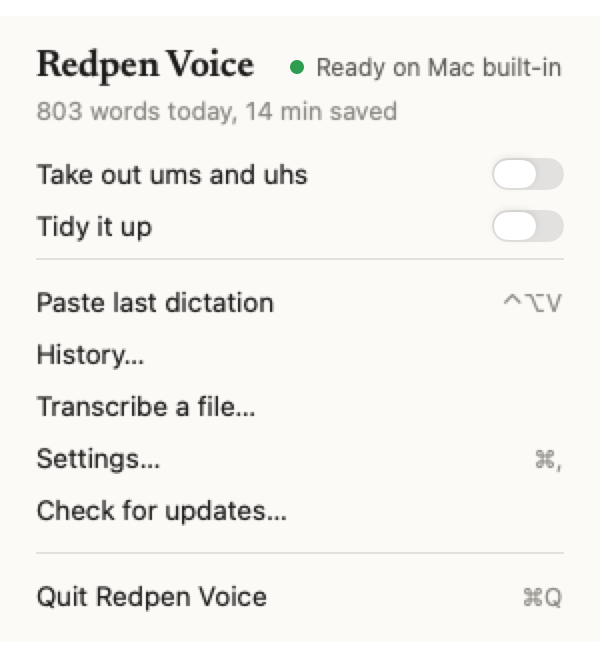
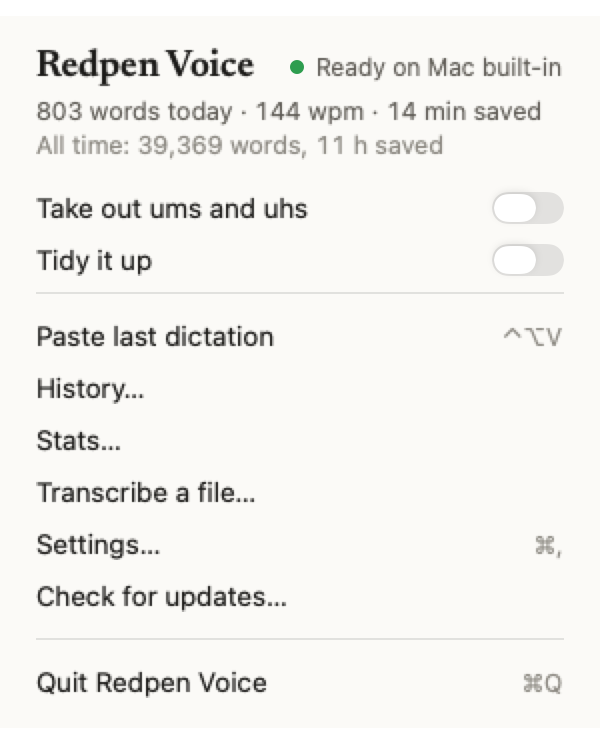
README: the Stats window, stats.json in Privacy; pictures redrawn with sample numbers

diff --git a/README.md b/README.md
@@ -63,18 +63,18 @@ Tap the key twice to keep talking with your hands free, and tap once more to fin
 
 ## The menu
 
-Click the Voice icon in the menu bar for today's words and the minutes they saved you, the two switches, Paste last dictation, Transcribe a file, Settings and Check for updates.
+Click the Voice icon in the menu bar for today's words, your speed and the minutes they saved you, with an all-time line under them; the two switches; Paste last dictation, History, Stats, Transcribe a file, Settings and Check for updates.
 
 <p align="center">
 <picture>
   <source media="(prefers-color-scheme: dark)" srcset="docs/screenshots/menu-dark.png">
-  <img src="docs/screenshots/menu-light.png" alt="The menu bar panel: status, words today and minutes saved, two switches, paste last dictation, transcribe a file, settings, check for updates" width="300">
+  <img src="docs/screenshots/menu-light.png" alt="The menu bar panel: status, words today, speed and minutes saved, an all-time line, two switches, paste last dictation, history, stats, transcribe a file, settings, check for updates" width="300">
 </picture>
 </p>
 
 ## Settings
 
-Every choice on one page: the engine, how your words come out, the key you talk with, your microphone, the bar, and your list of words it gets wrong. Each engine shows a real sentence it heard, so you can judge before you download.
+Every choice on one page: the engine, how your words come out, the key you talk with, your microphone, the bar, your list of words it gets wrong, and your typing speed for time saved. Each engine shows a real sentence it heard, so you can judge before you download.
 
 <p align="center">
 <picture>
@@ -114,6 +114,17 @@ Every dictation, newest first: search them, copy one, delete one. Choose how lon
 </picture>
 </p>
 
+## Stats
+
+This week, the last 30 days and all time: words, minutes saved, your average speed and how many dictations. Below them, your words a day for the last 30 days and your speed over time. Minutes saved are compared with typing at 40 words a minute; set your own typing speed in Settings. Open it from the menu. Stats are numbers only and stay when the history is cleared; Reset stats sets them back to zero.
+
+<p align="center">
+<picture>
+  <source media="(prefers-color-scheme: dark)" srcset="docs/screenshots/stats-dark.png">
+  <img src="docs/screenshots/stats-light.png" alt="The stats window, shown with sample numbers: this week, the last 30 days and all time, words a day for 30 days, and speed week by week" width="480">
+</picture>
+</p>
+
 ## How accurate is it
 
 All three engines were run on [WildSpeech-Bench](https://huggingface.co/datasets/tencent/WildSpeech-Bench), 1,100 public recordings of people asking questions: some in quiet rooms, some on the street, some with others talking.
@@ -146,6 +157,7 @@ On [TORGO](https://www.cs.toronto.edu/~complingweb/data/TORGO/torgo.html), recor
 - Speech is turned into text on your Mac, by every engine. Nothing you say or write is sent anywhere.
 - **What is kept, and where.** All in `~/Library/Application Support/Redpen Voice/`, readable only by your account on this Mac:
   - `history.jsonl`: the text of your last 2,000 dictations (what was heard and, if you use a tidy option, what went in), with when, how long and which app. Never the sound. This is what Paste last reads. You can delete it any time.
+  - `stats.json`: numbers only, never your words. For each day and engine: how many words, how many seconds of talking, and how many dictations. Kept whatever you choose for the history; Reset stats in the Stats window clears it.
   - Your word list (a plain text file), `talk.json` (your pace and pauses, numbers only) and `learned.json` (counts of the name fixes it has seen, stored as fingerprints, not words).
   - The log in `~/Library/Logs/RedpenVoice.log` holds timings, app names and counts, never your words.
 - **The microphone stays on while Voice is open**, so the Mac's orange microphone dot stays lit. It holds only the last 0.6 seconds in memory, so the word you say as the key goes down isn't cut, and that is overwritten continuously. Nothing is kept until you press the key.
@@ -181,7 +193,7 @@ To keep Accessibility permission across rebuilds, sign with your own certificate
 swift run redpen-voice-test
 ```
 
-Runs the checks for the parts that need no microphone: the word list, history, the ums filter, silence handling, the media pause, where a recording is cut while you talk, how-you-talk numbers, learning fixed names and screen hints.
+Runs the checks for the parts that need no microphone: the word list, history, stats, the ums filter, silence handling, the media pause, where a recording is cut while you talk, how-you-talk numbers, learning fixed names and screen hints.
 
 `"Redpen Voice.app/Contents/MacOS/RedpenVoice" --stream-test files.txt out.jsonl` writes each audio file whole and streamed, with the wait after release, for checking streaming against long recordings.
 
